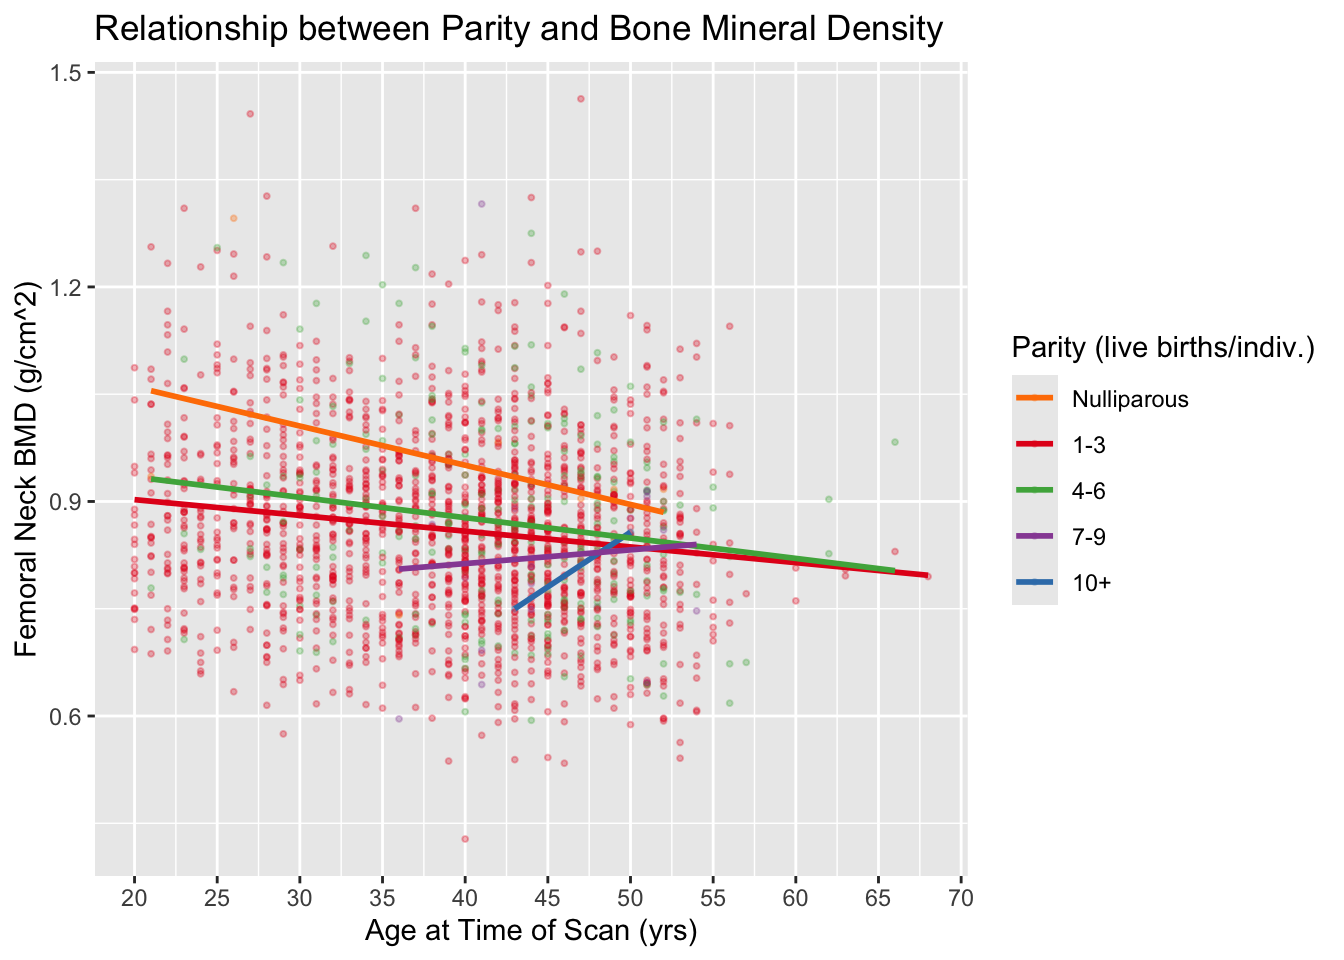
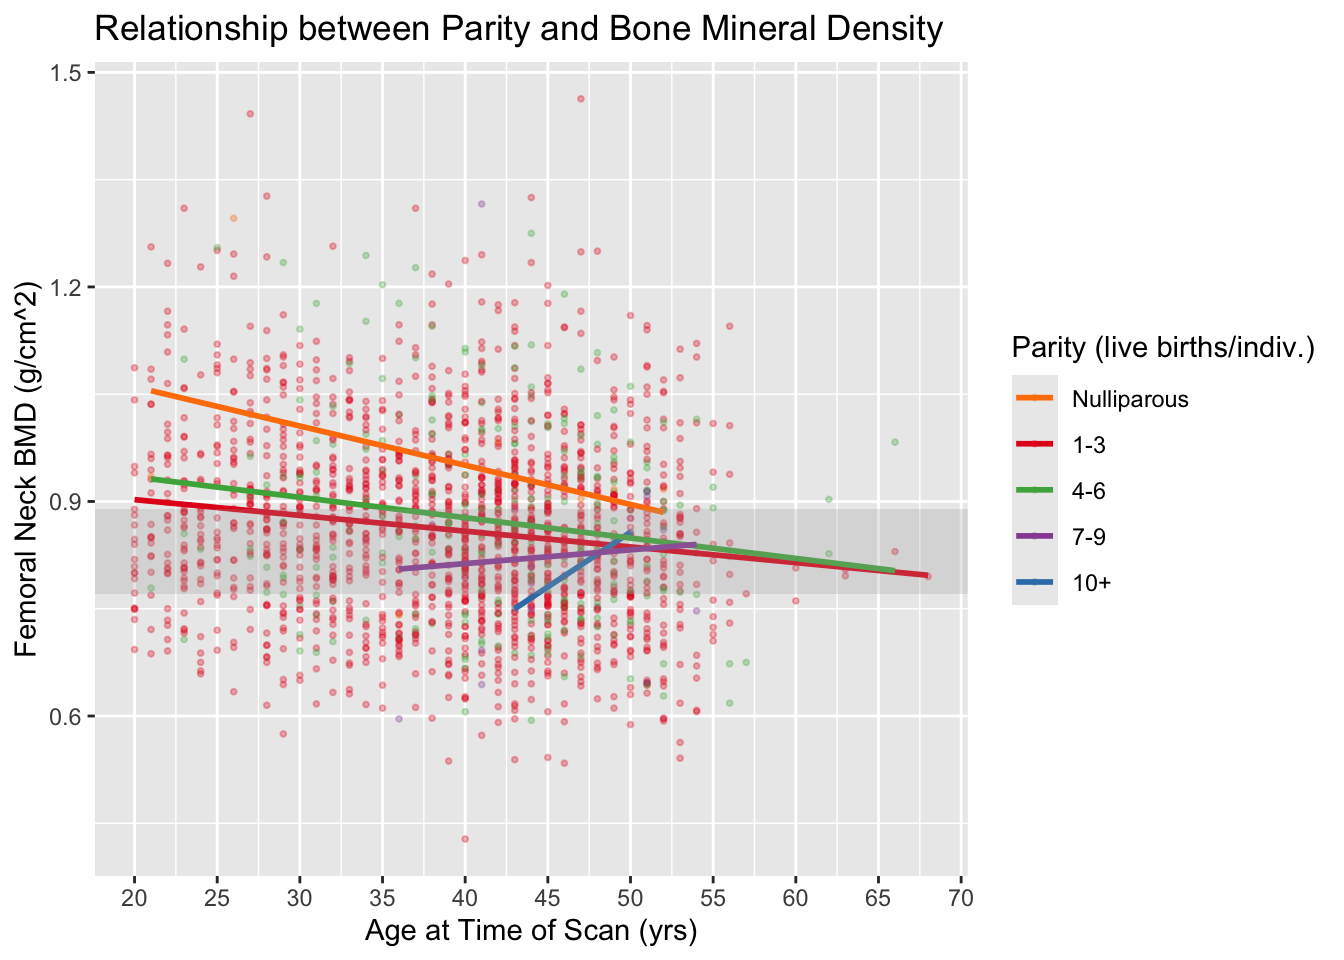
Build site.

Changed region(s): [[0.1875, 0.5312, 0.4688, 0.625], [0.5, 0.5625, 0.6562, 0.5938], [0.6562, 0.5938, 0.6875, 0.625]]

diff --git a/docs/analysis.html b/docs/analysis.html
@@ -382,7 +382,7 @@ class="glyphicon glyphicon-ok text-success" aria-hidden="true"></span>
 <div class="tab-content">
 <div id="summary" class="tab-pane fade in active">
 <p>
-<strong>Last updated:</strong> 2025-03-11
+<strong>Last updated:</strong> 2025-03-12
 </p>
 <p>
 <strong>Checks:</strong> <span
@@ -513,15 +513,15 @@ project makes it easier to run your code on other machines.</p>
 <div class="panel panel-default">
 <div class="panel-heading">
 <p class="panel-title">
-<a data-toggle="collapse" data-parent="#workflowr-checks" href="#strongRepositoryversionstrongahrefhttpsgithubcomcalliquireafbploaaba2025treee5db396df241c3986362fe57594dc389f4a2802etargetblanke5db396a">
+<a data-toggle="collapse" data-parent="#workflowr-checks" href="#strongRepositoryversionstrongahrefhttpsgithubcomcalliquireafbploaaba2025tree233ae8609062040ef76841d07201788343c8bbbctargetblank233ae86a">
 <span class="glyphicon glyphicon-ok text-success"
 aria-hidden="true"></span> <strong>Repository version:</strong>
-<a href="https://github.com/calliquire/afb_plo_aaba_2025/tree/e5db396df241c3986362fe57594dc389f4a2802e" target="_blank">e5db396</a>
+<a href="https://github.com/calliquire/afb_plo_aaba_2025/tree/233ae8609062040ef76841d07201788343c8bbbc" target="_blank">233ae86</a>
 </a>
 </p>
 </div>
 <div
[2 lines of base64/hex data omitted]
 class="panel-collapse collapse">
 <div class="panel-body">
 <p>
@@ -531,7 +531,7 @@ reproducibility.
 </p>
 <p>
 The results in this page were generated with repository version
-<a href="https://github.com/calliquire/afb_plo_aaba_2025/tree/e5db396df241c3986362fe57594dc389f4a2802e" target="_blank">e5db396</a>.
+<a href="https://github.com/calliquire/afb_plo_aaba_2025/tree/233ae8609062040ef76841d07201788343c8bbbc" target="_blank">233ae86</a>.
 See the <em>Past versions</em> tab to see a history of the changes made
 to the R Markdown and HTML files.
 </p>
@@ -552,9 +552,13 @@ Ignored files:
     Ignored:    .Rproj.user/
 
 Untracked files:
-    Untracked:  afb.pdf
-    Untracked:  par.pdf
-    Untracked:  par_afb.pdf
+    Untracked:  afb_par_plot.png
+    Untracked:  afb_plot.png
+    Untracked:  parity_plot.png
+
+Unstaged changes:
+    Modified:   analysis/about.Rmd
+    Modified:   analysis/materials.Rmd
 
 </code></pre>
 <p>
@@ -599,6 +603,40 @@ Message
 </tr>
 </thead>
 <tbody>
+<tr>
+<td>
+Rmd
+</td>
+<td>
+<a href="https://github.com/calliquire/afb_plo_aaba_2025/blob/233ae8609062040ef76841d07201788343c8bbbc/analysis/analysis.Rmd" target="_blank">233ae86</a>
+</td>
+<td>
+Calli Quire
+</td>
+<td>
+2025-03-12
+</td>
+<td>
+wflow_publish("analysis/analysis.Rmd")
+</td>
+</tr>
+<tr>
+<td>
+html
+</td>
+<td>
+<a href="https://rawcdn.githack.com/calliquire/afb_plo_aaba_2025/d6d2b4b4b5dad718f0779bb1a2477b9f4a4f4d34/docs/analysis.html" target="_blank">d6d2b4b</a>
+</td>
+<td>
+Calli Quire
+</td>
+<td>
+2025-03-11
+</td>
+<td>
+Build site.
+</td>
+</tr>
 <tr>
 <td>
 Rmd
@@ -1836,61 +1874,61 @@ more actual analysis
 <h2>Download, install, run relevant packages</h2>
 <pre><code>
 The downloaded binary packages are in
-    /var/folders/ps/8glpgwws46q79hzcgj61tlsr0000gn/T//RtmpX3UdB5/downloaded_packages</code></pre>
+    /var/folders/ps/8glpgwws46q79hzcgj61tlsr0000gn/T//Rtmpe7xzo0/downloaded_packages</code></pre>
 <pre><code>
 The downloaded binary packages are in
-    /var/folders/ps/8glpgwws46q79hzcgj61tlsr0000gn/T//RtmpX3UdB5/downloaded_packages</code></pre>
+    /var/folders/ps/8glpgwws46q79hzcgj61tlsr0000gn/T//Rtmpe7xzo0/downloaded_packages</code></pre>
 <pre><code>
 The downloaded binary packages are in
-    /var/folders/ps/8glpgwws46q79hzcgj61tlsr0000gn/T//RtmpX3UdB5/downloaded_packages</code></pre>
+    /var/folders/ps/8glpgwws46q79hzcgj61tlsr0000gn/T//Rtmpe7xzo0/downloaded_packages</code></pre>
 <pre><code>
 The downloaded binary packages are in
-    /var/folders/ps/8glpgwws46q79hzcgj61tlsr0000gn/T//RtmpX3UdB5/downloaded_packages</code></pre>
+    /var/folders/ps/8glpgwws46q79hzcgj61tlsr0000gn/T//Rtmpe7xzo0/downloaded_packages</code></pre>
 <pre><code>
 The downloaded binary packages are in
-    /var/folders/ps/8glpgwws46q79hzcgj61tlsr0000gn/T//RtmpX3UdB5/downloaded_packages</code></pre>
+    /var/folders/ps/8glpgwws46q79hzcgj61tlsr0000gn/T//Rtmpe7xzo0/downloaded_packages</code></pre>
 <pre><code>
 The downloaded binary packages are in
-    /var/folders/ps/8glpgwws46q79hzcgj61tlsr0000gn/T//RtmpX3UdB5/downloaded_packages</code></pre>
+    /var/folders/ps/8glpgwws46q79hzcgj61tlsr0000gn/T//Rtmpe7xzo0/downloaded_packages</code></pre>
 <pre><code>
 The downloaded binary packages are in
-    /var/folders/ps/8glpgwws46q79hzcgj61tlsr0000gn/T//RtmpX3UdB5/downloaded_packages</code></pre>
+    /var/folders/ps/8glpgwws46q79hzcgj61tlsr0000gn/T//Rtmpe7xzo0/downloaded_packages</code></pre>
 <pre><code>
 The downloaded binary packages are in
-    /var/folders/ps/8glpgwws46q79hzcgj61tlsr0000gn/T//RtmpX3UdB5/downloaded_packages</code></pre>
+    /var/folders/ps/8glpgwws46q79hzcgj61tlsr0000gn/T//Rtmpe7xzo0/downloaded_packages</code></pre>
 <pre><code>
 The downloaded binary packages are in
-    /var/folders/ps/8glpgwws46q79hzcgj61tlsr0000gn/T//RtmpX3UdB5/downloaded_packages</code></pre>
+    /var/folders/ps/8glpgwws46q79hzcgj61tlsr0000gn/T//Rtmpe7xzo0/downloaded_packages</code></pre>
 <pre><code>
 The downloaded binary packages are in
-    /var/folders/ps/8glpgwws46q79hzcgj61tlsr0000gn/T//RtmpX3UdB5/downloaded_packages</code></pre>
+    /var/folders/ps/8glpgwws46q79hzcgj61tlsr0000gn/T//Rtmpe7xzo0/downloaded_packages</code></pre>
 <pre><code>
 The downloaded binary packages are in
-    /var/folders/ps/8glpgwws46q79hzcgj61tlsr0000gn/T//RtmpX3UdB5/downloaded_packages</code></pre>
+    /var/folders/ps/8glpgwws46q79hzcgj61tlsr0000gn/T//Rtmpe7xzo0/downloaded_packages</code></pre>
 <pre><code>
 The downloaded binary packages are in
-    /var/folders/ps/8glpgwws46q79hzcgj61tlsr0000gn/T//RtmpX3UdB5/downloaded_packages</code></pre>
+    /var/folders/ps/8glpgwws46q79hzcgj61tlsr0000gn/T//Rtmpe7xzo0/downloaded_packages</code></pre>
 <pre><code>
 The downloaded binary packages are in
-    /var/folders/ps/8glpgwws46q79hzcgj61tlsr0000gn/T//RtmpX3UdB5/downloaded_packages</code></pre>
+    /var/folders/ps/8glpgwws46q79hzcgj61tlsr0000gn/T//Rtmpe7xzo0/downloaded_packages</code></pre>
 <pre><code>
 The downloaded binary packages are in
-    /var/folders/ps/8glpgwws46q79hzcgj61tlsr0000gn/T//RtmpX3UdB5/downloaded_packages</code></pre>
+    /var/folders/ps/8glpgwws46q79hzcgj61tlsr0000gn/T//Rtmpe7xzo0/downloaded_packages</code></pre>
 <pre><code>
 The downloaded binary packages are in
-    /var/folders/ps/8glpgwws46q79hzcgj61tlsr0000gn/T//RtmpX3UdB5/downloaded_packages</code></pre>
+    /var/folders/ps/8glpgwws46q79hzcgj61tlsr0000gn/T//Rtmpe7xzo0/downloaded_packages</code></pre>
 <pre><code>
 The downloaded binary packages are in
-    /var/folders/ps/8glpgwws46q79hzcgj61tlsr0000gn/T//RtmpX3UdB5/downloaded_packages</code></pre>
+    /var/folders/ps/8glpgwws46q79hzcgj61tlsr0000gn/T//Rtmpe7xzo0/downloaded_packages</code></pre>
 <pre><code>
 The downloaded binary packages are in
-    /var/folders/ps/8glpgwws46q79hzcgj61tlsr0000gn/T//RtmpX3UdB5/downloaded_packages</code></pre>
+    /var/folders/ps/8glpgwws46q79hzcgj61tlsr0000gn/T//Rtmpe7xzo0/downloaded_packages</code></pre>
 <pre><code>
 The downloaded binary packages are in
-    /var/folders/ps/8glpgwws46q79hzcgj61tlsr0000gn/T//RtmpX3UdB5/downloaded_packages</code></pre>
+    /var/folders/ps/8glpgwws46q79hzcgj61tlsr0000gn/T//Rtmpe7xzo0/downloaded_packages</code></pre>
 <pre><code>
 The downloaded binary packages are in
-    /var/folders/ps/8glpgwws46q79hzcgj61tlsr0000gn/T//RtmpX3UdB5/downloaded_packages</code></pre>
+    /var/folders/ps/8glpgwws46q79hzcgj61tlsr0000gn/T//Rtmpe7xzo0/downloaded_packages</code></pre>
 <pre><code>
 Attaching package: &#39;dplyr&#39;</code></pre>
 <pre><code>The following objects are masked from &#39;package:stats&#39;:
@@ -2766,7 +2804,8 @@ plot5 &lt;-
   labs(title = &quot;Relationship between Age at First Birth and Bone Mineral Density&quot;, x = &quot;Age at Time of Scan (yrs)&quot;, y = &quot;Femoral Neck BMD (g/cm^2)&quot;, color = &quot;Age at First Birth (yrs)&quot;) +
   scale_color_brewer(palette = &quot;Set1&quot;) +
   scale_x_continuous(breaks = seq(0, 70, by = 5)) +
-  geom_smooth(method = &quot;lm&quot;, se = F)
+  geom_smooth(method = &quot;lm&quot;, se = F) +
+  annotate(&quot;rect&quot;, xmin = -Inf, xmax = Inf, ymin = 0.77, ymax = 0.89, fill = &#39;darkgrey&#39;, alpha = 0.25)
 print(plot5)</code></pre>
 <pre><code>`geom_smooth()` using formula = &#39;y ~ x&#39;</code></pre>
 <p><img src="figure/analysis.Rmd/unnamed-chunk-20-6.png" width="672" style="display: block; margin: auto;" /></p>
@@ -2792,6 +2831,17 @@ Date
 </tr>
 </thead>
 <tbody>
+<tr>
+<td>
+<a href="https://github.com/calliquire/afb_plo_aaba_2025/blob/d6d2b4b4b5dad718f0779bb1a2477b9f4a4f4d34/docs/figure/analysis.Rmd/unnamed-chunk-20-6.png" target="_blank">d6d2b4b</a>
+</td>
+<td>
+Calli Quire
+</td>
+<td>
+2025-03-11
+</td>
+</tr>
 <tr>
 <td>
 <a href="https://github.com/calliquire/afb_plo_aaba_2025/blob/938f38ffa6019c7f798882febad5c044f26d9f12/docs/figure/analysis.Rmd/unnamed-chunk-20-6.png" target="_blank">938f38f</a>
@@ -3122,7 +3172,8 @@ plot6 &lt;-
   scale_color_brewer(palette = &quot;Set1&quot;, breaks = c(&#39;Nulliparous&#39;, &#39;1-3&#39;, &#39;4-6&#39;, &#39;7-9&#39;, &#39;10+&#39;)) +
   scale_x_continuous(breaks = seq(0, 70, by = 5)) +
   labs(title = &quot;Relationship between Parity and Bone Mineral Density&quot;, x = &quot;Age at Time of Scan (yrs)&quot;, y = &quot;Femoral Neck BMD (g/cm^2)&quot;, color = &quot;Parity (live births/indiv.)&quot;) +
-  geom_smooth(method = &quot;lm&quot;, se = F)
+  geom_smooth(method = &quot;lm&quot;, se = F) +
+  annotate(&quot;rect&quot;, xmin = -Inf, xmax = Inf, ymin = 0.77, ymax = 0.89, fill = &#39;darkgrey&#39;, alpha = 0.25)
 print(plot6)</code></pre>
 <pre><code>`geom_smooth()` using formula = &#39;y ~ x&#39;</code></pre>
 <p><img src="figure/analysis.Rmd/unnamed-chunk-33-1.png" width="672" style="display: block; margin: auto;" /></p>
@@ -3148,6 +3199,17 @@ Date
 </tr>
 </thead>
 <tbody>
+<tr>
+<td>
+<a href="https://github.com/calliquire/afb_plo_aaba_2025/blob/d6d2b4b4b5dad718f0779bb1a2477b9f4a4f4d34/docs/figure/analysis.Rmd/unnamed-chunk-33-1.png" target="_blank">d6d2b4b</a>
+</td>
+<td>
+Calli Quire
+</td>
+<td>
+2025-03-11
+</td>
+</tr>
 <tr>
 <td>
 <a href="https://github.com/calliquire/afb_plo_aaba_2025/blob/938f38ffa6019c7f798882febad5c044f26d9f12/docs/figure/analysis.Rmd/unnamed-chunk-33-1.png" target="_blank">938f38f</a>
@@ -3203,7 +3265,8 @@ plot8 &lt;-
   scale_fill_brewer(palette = &quot;Set1&quot;, breaks=c(&#39;&lt; 27&#39;, &#39;&gt;/= 27&#39;)) +
   scale_x_discrete(limits = c(&#39;1-3&#39;, &#39;4-6&#39;, &#39;7-9&#39;, &#39;10+&#39;)) +
   geom_jitter(size = 0.5, alpha = 0.3) +
-  labs(title = &quot;Relationship between Parity &amp; Age at First Birth and Bone Mineral Density&quot;, y =  &quot;Femoral Neck BMD (g/cm^2)&quot;, x = &quot;Parity (live births/indiv.)&quot;, fill = &quot;Age at First Birth (yrs)&quot;)
+  labs(title = &quot;Relationship between Parity &amp; Age at First Birth and Bone Mineral Density&quot;, y =  &quot;Femoral Neck BMD (g/cm^2)&quot;, x = &quot;Parity (live births/indiv.)&quot;, fill = &quot;Age at First Birth (yrs)&quot;) +
+  annotate(&quot;rect&quot;, xmin = -Inf, xmax = Inf, ymin = 0.77, ymax = 0.89, fill = &#39;darkgrey&#39;, alpha = 0.25)
 print(plot8)</code></pre>
 <p><img src="figure/analysis.Rmd/unnamed-chunk-34-1.png" width="672" style="display: block; margin: auto;" /></p>
 <p>
@@ -3285,7 +3348,7 @@ LAPACK: /Library/Frameworks/R.framework/Versions/4.4-arm64/Resources/lib/libRlap
 locale:
 [1] en_US.UTF-8/en_US.UTF-8/en_US.UTF-8/C/en_US.UTF-8/en_US.UTF-8
 
-time zone: America/Detroit
+time zone: America/New_York
 tzcode source: internal
 
 attached base packages:
